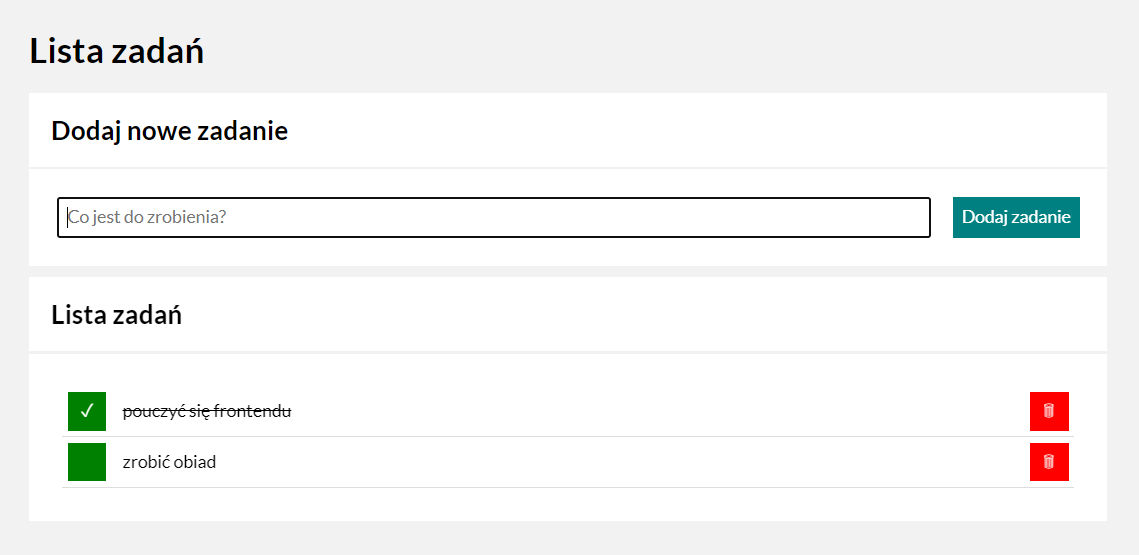
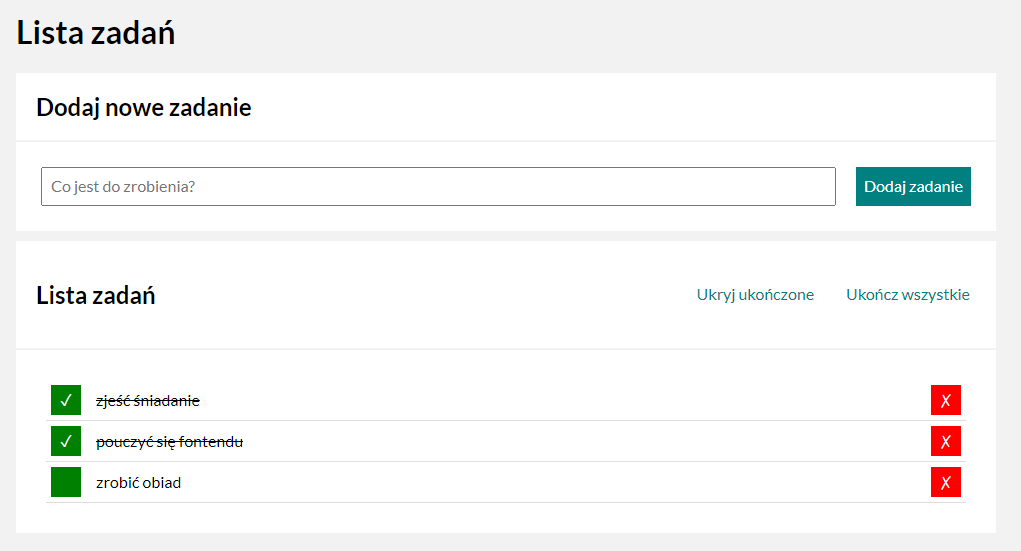
readme edit, fix display of new buttons

diff --git a/css/section.css b/css/section.css
@@ -7,7 +7,21 @@
     margin: 2px 0;
     padding: 20px;
     width: 100%;
-    display: flex;
+    display: grid;
+    grid-template-columns: 1fr auto;
+    /* display: flex;
+    flex-direction: row; */
+    /* justify-content: flex-end; */
+}
+
+/* .section__title {
+    justify-content: flex-start;
+} */
+
+@media (max-width: 767px) {
+    .section__header {
+        grid-template-columns: 1fr;
+    }
 }
 
 .section__paragraph {

diff --git a/css/buttons.css b/css/buttons.css
@@ -9,6 +9,7 @@
     border: none;
     margin: 0 0 0 20px;
     transition: color 0.3s;
+    cursor: pointer;
 }
 
 @media(max-width: 767px) {

diff --git a/css/tasks.css b/css/tasks.css
@@ -30,6 +30,7 @@
     margin: 5px;
     border: none;
     transition: 0.7s;
+    cursor: pointer;
 }
 
 .tasks__button--toggleDone {

diff --git a/css/form.css b/css/form.css
@@ -26,6 +26,7 @@
     border: 0;
     /* flex-grow: 1; */
     transition: 0.5s;
+    cursor: pointer;
 }
 
 .form__button:hover {
